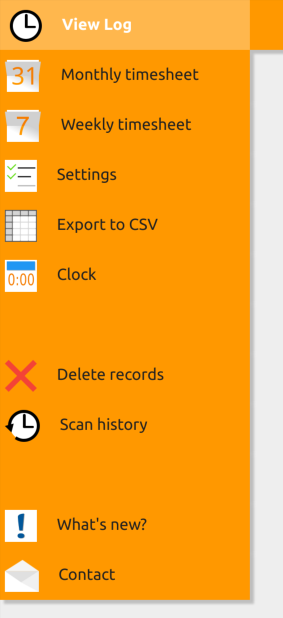
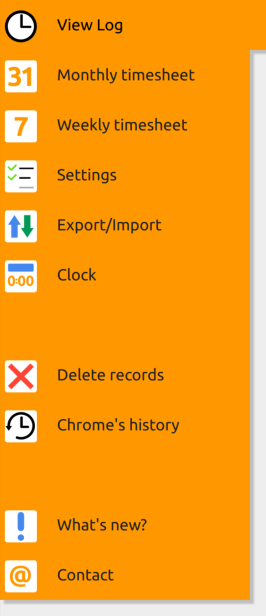
version6

diff --git a/help/index.html b/help/index.html
@@ -1,1 +1,1 @@
-<meta content="Ivan Nokonoko"name=author><meta content="Get help in the usage of LBTimer, the timer for Lionbridge and Leapforce raters"name=description><meta content=lbtimer,timer,rater,tasks,lionbridge,leapforce name=keywords><title>LBTimer's help</title><link href="https://fonts.googleapis.com/css?family=Open+Sans:400,300"rel=stylesheet><link href=../css/style.css rel=stylesheet><link href=../img/lb16.png rel=icon id=favicon sizes=16x16 type=image/png><link href=../img/lb32.png rel=icon id=favicon sizes=32x32 type=image/png><style>h2{color:#f90;font-weight:700}.bullets>li{list-style-type:disc;padding:.5em 0}table{border-collapse:collapse}th{background-color:#ccc;text-align:center;border:solid 1px #888}td{border:solid 1px #888;padding:5px 20px}.crl{font-size:12px}.crl span{color:#f40;font-weight:700}.tcrl{width:100%;margin-bottom:20px}.content div{width:80%;margin:0 auto;padding:50px 10px 10px;background-color:#fff;border-bottom:1px solid #eee}#index a{display:block}</style><div id=header><a href=../index.html title=LBTimer><img src=../img/lb96.png alt=LBTimer> LBTimer</a> <a href=# title=Help>Help</a> <a href=../contact/ title=Contact>Contact</a></div><div class=content><div id=index><h2>LBTimer's help</h2><a href=#install>Installation</a> <a href=#icon>Icon</a> <a href=#popup>Popup Menu</a> <a href=#mainpanel>Main Panel</a> <a href=#timesheets>Timesheets</a> <a href=#settings>Settings</a> <a href=#custom>Custom Research links</a></div><div id=install><h2>Installation</h2><ol><li>Open <a href=https://www.google.com/chrome/browser/desktop target=_blank>Google Chrome</a><li>Sign in to Chrome with your rater Gmail account<li>Open LBTimer's entry in Google Chrome Webstore<li>Click on the <span style=background-color:#4d7bd6;color:#fff;font-weight:700>&nbsp;+ ADD TO CHROME&nbsp;</span> button on the top right<li><p>LBTimer is now installed and you can see the icon at the right side of the address bar<figure><img src=../img/addressbarcompact.png><figcaption>LBTimer's icon</figcaption></figure><li>Upon installation, you'll be prompted to allow LBTimer to access Google Drive&#x2122;, where your work records will be stored, and the Main Panel will open.<li>LBTimer will work automatically when you open the <a href=https://www.raterhub.com target=_blank>Rater Hub page</a>.</ol></div><div id=icon><h2>Icon</h2><p>LBTimer's icon appears at the right side of the address bar (Omnibox)<figure><img src=../img/addressbarcompact.png> <span class=hl style=left:216px;top:10px;width:22px;height:22px title="LBTimer's icon"></span><figcaption>LBTimer's icon</figcaption></figure><p>The icon provides information about the current state of the extension</p><img src=../img/icontsk.png>&larr; There are tasks available in the Rater Hub page.<br><img src=../img/iconnrt.png>&larr; There are no tasks available in the Rater Hub page.<br><img src=../img/iconon.png>&larr; A task is active and the timer is running.<br><img src=../img/iconw.png>&larr; You are getting close to the allotted time for the current task.<br><img src=../img/icontu.png>&larr; You have reached the allotted time for the current task.<br><img src=../img/iconpause.png>&larr; The timer is paused<br><img src=../img/iconoff.png>&larr; The extension is inactive.<br><p>Clicking the icon will open the Popup menu.</div><div id=popup><h2>Popup Menu</h2><p>You can open the Popup menu by clicking on the extension's icon in the address bar.<figure><img src=../img/LBpopup.png alt="Popup menu"><figcaption>Popup menu</figcaption></figure><p>From the Popup menu you can open the Main Panel and have a quick glance of the tasks completed and time spent in them during the day.<p>It also provides quick access to some functions:</p><img src=../img/pause.png> Pause/continue the timer while working on tasks.<br><img src=../img/autosubmit.png> Switch auto-submission of tasks: ON - Submit and Stop rating - OFF.<br><img src=../img/onoff.png> Turn the extension ON/OFF.<br></div><div id=mainpanel><h2>Main Panel</h2><p>You can open the Main Panel by clicking on the clock icon on orange background in the popup menu.<figure><img src=../img/LBpopup.png alt="Popup menu"> <span class=hl style=left:57px;top:66px;width:164px;height:48px title="Click here to open the main panel"></span><figcaption>Popup menu</figcaption></figure><p>When you first install LBTimer, the Main Panel will show a welcome message with some instructions:<figure><img src=../img/mainpanel.png alt="Main Panel"width=640px><figcaption>LBTimer's Main Panel</figcaption></figure><p>Hovering your mouse over the top left clock icon will display the main menu:<figure><img src=../img/mainmenu.png alt="Main menu"><figcaption>LBTimer's main menu</figcaption></figure><p>From the main menu you can:<ul class=bullets><li><b>Open the extension's log</b> where you can read the list of tasks acquired/submitted/released since the extension started and other important messages from the extension.<li><b>Open the Monthly timesheet</b> to view the time spent rating tasks during the whole month. More information in the next section.<li><b>Open the Weekly timesheet</b> to view the time spent rating tasks per task type and day. More information in the next section.<li><b>Open the settings</b> and customize the working of the extension's notifications, sounds, automation, and more. See the section "Settings" below.<li><b>Export the data to CSV format</b> so you can save a copy of the recorded data in your hard drive.<li><b>Open a popup clock</b> to view the time in a bigger window or manually track the time spent on mobile tasks.<li><b>Delete the recorded data</b> once you don't need it anymore: for example, you can delete the records of the months you have already been paid for.<li><b>Scan Chrome's history for acquired tasks:</b> this tool allows you to check what tasks have been acquired according to Chrome's history in a specific date. You will be prompted to give LBTimer permission to read your Chrome history.<li><b>View what's new:</b> a summary of the most recent upgrades of the extension.<li><b>Contact the developer:</b> here you find contact information of the developer, you can send him feedback from the extension directly, rate the extension in Chrome's Web Store and show your appreciation with a donation.</ul></div><div id=timesheets><h2>Timesheets</h2><h3>Weekly timesheet</h3><figure><img src=../img/weekts.png alt="Weekly timesheet"width=640px height=400px><figcaption>Weekly timesheet</figcaption></figure><p>In the weekly timesheet you can see the tasks completed and time spent in them during the week. The tasks are divided by task type and the last columns show the totals for the week. You can also see a month summary in the bottom left.<p>The times are shown in minutes, with the totals shown either in minutes or in hours:minutes format. You can change how the totals are displayed in the settings (Settings > Timing > Show totals in hh:mm format). To quickly change the format in which the totals are displayed, click on any cell that says TOTAL.<p>Hovering your mouse over any cell with a timig total (daily, weekly or monthly) will display the earnings of that period. You can configure your hourly wages in the settings (Settings > Misc > Hourly wage)<p>You can navigate to the previous or following week using the buttons "&lt;&lt;" and "&gt;&gt;". The button labeled "today" will show the current week, with the current day highlighted. You can also use the date picker under the "today" button to show any specific date.<p>You can quickly open the monthly timesheet by clicking on the month's name in the bottom left summary table.<p>To edit any day's record, click on the date you want to edit on the top row. A dialog will open where you can manually edit the records for that day.<figure><img src=../img/edit.png alt="Edition dialog"width=322px></figure><p>When it is time to fill the timesheet in Lionbridge's portal, LBTimer can fill it automatically for you with the recorded data. Just click one of the buttons shown below to automatically fill the timesheet with the AET (average estimated time) or the real time spent in the tasks.<figure><img src=../img/tsa.png alt="Timesheet auto-fill"width=541px> <span class=hl style=left:88px;top:22px;width:122px;height:20px title="LBTimer's timesheet auto-fill buttons"></span><figcaption>Timesheet auto-fill buttons</figcaption></figure><h3>Monthly Timesheet</h3><figure><img src=../img/monthts.png alt="Monthly timesheet"width=640px height=400px><figcaption>Monthly timesheet</figcaption></figure><p>The monthly timesheet shows the time spent in rating tasks during the month. Clicking on any day's time will open the corresponding weekly timesheet.<p>You can navigate to the previous or following month using the buttons "&lt;&lt;" and "&gt;&gt;". The button labeled "today" will show the current month, with the current day highlighted.</div><div id=settings><h2>Settings</h2><h3>Notifications</h3><figure><img src=../img/notif.png alt=Notification width=372px><figcaption>LBTimer's desktop notification</figcaption></figure><ul class=bullets><li><b>When tasks available:</b> A desktop notification will appear when the Rater Hub page is loaded and there are tasks available.<li><b>When a task is acquired:</b> A desktop notification will appear when a task is acquired, indicating the task type and average estimated time.<li><b>When a task is submitted:</b> A desktop notification will appear when a task is successfully submitted, indicating the task type that was submitted and the task's id number.<li><b>When the timer reaches __% of AET:</b> A desktop notification will appear when you reach a specified percentage of the AET (average estimated time). You can select at which total time's percentage you want to be warned from 50% to 95%.<li><b>When the timer reaches the AET:</b> A desktop notification will appear when the timer reaches the AET (average estimated time) for the current task. The notification will show a button to submit the task.<li><b>Daily/Weekly/Monthly goals:</b> A desktop notification will appear when you reach any of the configured time goals. To disable the goals notification set the goal time to zero.</ul><h3>Sounds</h3><ul class=bullets><li><b>When tasks available:</b> A bell will tinkle when the Rater Hub page is loaded and there are tasks available. You can also make the sound to be repeated until a task is acquired or no more tasks are available.<li><b>When timer reaches AET:</b> A bell will tinkle when the timer reaches the AET (average estimated time) for the current task.</ul><h3>Automation</h3><ul class=bullets><li><b>Auto-reload:</b> When there are no tasks available in the Rater Hub page, LBTimer will automatically refresh the page at the selected interval.<li><b>Autosubmit:</b> When this setting is active, LBTimer will submit the current task when the timer reaches the AET (average estimated time). NOTE: LBTimer will not check that the task is complete before trying to auto-submit it.<li><b>Autosubmit sooner:</b> With this setting active, the autosubmit feature will be triggered earlier if you are running behind AET in the tasks of the current type during the day. You can select how much sooner you allow the extension to try to auto-submit.<li><b>Autosubmit later:</b> With this setting active, the autosubmit feature will be triggered later if you are ahead of AET in the tasks of the current type during the day. You can select how much later you allow the extension to try to auto-submit.<li><b>Auto-acquire:</b> When this setting is active, LBTimer will acquire the first available task that matches the task type(s) selected. This feature is specially useful paired with auto-reload when tasks are scarce.<li><b>Auto-acquire only after NRT</b> This setting will cause auto-acquire to be triggered only if previously there were no available tasks. This way, if you land on the tasks index after completing a task you can manually choose which task to acquire, if any.</ul><h3>Timing</h3><ul class=bullets><li><b>Coundown clock:</b> This setting will cause the clock displayed in the extension's icon to count from the AET (average estimated time) to zero.<li><b>AET mode:</b> When active, the timesheets will display the time recorded according to the AET (average estimated time) for the tasks. In this mode, you can hover your mouse over any time cell to see the real time spent. If this setting is inactive, the timesheets will display only the real time. This setting only affects how the timings are displayed: regardless of it, LBTimer will always record both the AET and the real time spent in the tasks.<li><b>HH:MM format:</b> This setting will change how the totals are displayed in the weekly timesheet: if active, the times will be shown in hours:minutes (e.g: 2h 30m). When inactive, the toals will be displayed only in minutes (e.g: 150).<li><b>Check midnight passing:</b> When active, LBTimer will check the current date everytime the Rate Hub page is loaded/updated, in order to record the tasks completed in the corresponding day. With this setting inactive, all tasks will be recorded in the day the extension was started (usually when Chrome was opened).<li><b>Pacific time:</b> When active, LBTimer will use the Pacific timezone. This timezone may be a requirement of your vendor.<li><b>Continuous timer</b> When active, the timer will be automatically restarted as soon as a task is submitted, without waiting for the next task (if any) to be loaded. When inactive, the timer will stop when a task is submitted and restart when a new task is completely loaded. You can select a time threshold for the continuous timer so it works only on long tasks but not on short ones.</ul><h3>E-mail</h3><ul class=bullets><li><b>Send e-mail when tasks available:</b> An e-mail will be sent to the selected e-mail addresses when tasks are available in the Rater Hub page. You can select multiple e-mail addresses to be notified by separating them with semicolon (;). To prevent flooding the e-mail, the notification e-mail will be sent only if previously there were no tasks available.</ul><h3>Misc</h3><ul class=bullets><li><b>Rate-from-LP:</b> This setting will enable the experimental feature <a href=http://jsfiddle.net/2aem2j2n/ target=_blank>Rate-from-LP</a>, that shows a small rating panel in the NM and SXS tasks' landing pages opened with LBTimer's link openers. The panel will allow you to input your rating directly from the landing page. This way, you rate what you see while you see it, and also save time by not switching constanly between the task page and the landing pages.<li><b>Hourly wage:</b> Set your hourly wage so you can preview your expected earnings by hovering your mouse over the time cells in LBTimer's timesheets.</ul></div><div id=custom><h2>Custom Research links</h2><p>The custom research links are a new feature that allows you to quickly open relevant review results to evaluate webpages, for page quality tasks.<p>It allows you to write your own research links, so that you can create your own search queries that are relevant in your locale and language.<p>It uses a series of "wildcards" so you can quickly research the webpage and website of your task without having to write a new search query each time:<ul class=bullets><li>%url &rarr; the complete URL<li>%host &rarr; the hostname<li>%main &rarr; the main website, without subpages</ul><p>You can assign a label to each of the 5 possible web research links to easily identify them while completing the rating task.<p>Examples:<table><tr><td><b>Task URL:</b> http://www.bbc.co.uk/example/page/here<br><b>Task language:</b> English(UK)<br><span class=crl><span>LBTimer:</span> - <a href=http://www.bbc.co.uk/bbc/page/here target=_blank>Open it!</a> - <a href="https://www.google.com/search?q=Is%20bbc.co.uk%20a%20scam%20-site%3Abbc.co.uk"target=_blank>Check scam</a> - <a href="https://www.google.com/search?q=wikipedia%20%22bbc.co.uk%22"target=_blank>Wiki</a></span><tr><td><table class=tcrl><tr><th>Label<th>Custom link<th>Action when clicked<tr><td>Open it!<td>%url<td>Opens the webpage http://www.bbc.co.uk/example/page/here<tr><td>Check scam<td>Is %host a scam -site:%host<td>Makes a web search &rarr; Is bbc.co.uk a scam -site:bbc.co.uk<tr><td>Wiki<td>wikipedia "%host"<td>Makes a web search &rarr; wikipedia "bbc.co.uk"</table><tr><td><b>Task URL:</b> https://m.lemonde.fr/francais/page/ici<br><b>Task language:</b> French(FR)<br><span class=crl><span>LBTimer:</span> - <a href=https://m.lemonde.fr target=_blank>Main page</a> - <a href="https://www.google.com/search?q=lemonde.fr%20r%C3%A9putation%20-site%3Alemonde.fr"target=_blank>Reputation</a> - <a href="https://www.google.com/search?q=%22lemonde.fr%22%20arnaque%20rapport">Scam</a><tr><td><table class=tcrl><tr><th>Label<th>Custom link<th>Action when clicked<tr><td>Main page<td>%main<td>Opens the webpage https://m.lemonde.fr<tr><td>Reputation<td>%host r&eacute;putation -site:%host<td>Makes a web search &rarr; lemonde.fr r&eacute;putation -site:lemonde.fr<tr><td>Scam<td>"%host" arnaque rapport<td>Makes a web search &rarr; "lemonde.fr" arnaque rapport</table><tr><td><b>Task URL:</b> http://www.newsradioklbj.com/news/austin-local-news/condo-scam-suspect-charged-burglary<br><b>Task language:</b> English(US)<br><span class=crl><span>LBTimer:</span> - <a href=http://www.newsradioklbj.com/news/austin-local-news/condo-scam-suspect-charged-burglary target=_blank>Open</a> - <a href="https://www.google.com/search?q=newsradioklbj.com%20site%3Aalexa.com"target=_blank>Alexa</a> - <a href="https://wikipedia.org/w/?search=newsradioklbj.com"target=_blank>Wiki</a><tr><td><table class=tcrl><tr><th>Label<th>Custom link<th>Action when clicked<tr><td>Open<td>%url<td>Opens the webpage http://www.newsradioklbj.com/news/austin-local-news/condo-scam-suspect-charged-burglary<tr><td>Alexa<td>%host site:alexa.com<td>Makes a web search &rarr; newsradioklbj.com site:alexa.com<tr><td>Wiki<td>https://wikipedia.org/w/?search=%host<td>Opens the webpage: https://wikipedia.org/w/?search=newsradioklbj.com</table></div></div>
+<meta content="Ivan Nokonoko"name=author><meta content="Get help in the usage of LBTimer, the timer for Lionbridge and Leapforce raters"name=description><meta content=lbtimer,timer,rater,tasks,lionbridge,leapforce name=keywords><title>LBTimer's help</title><link href="https://fonts.googleapis.com/css?family=Open+Sans:400,300"rel=stylesheet><link href=../css/style.css rel=stylesheet><link href=../img/lb16.png rel=icon id=favicon sizes=16x16 type=image/png><link href=../img/lb32.png rel=icon id=favicon sizes=32x32 type=image/png><style>h2{color:#f90;font-weight:700}.bullets>li{list-style-type:disc;padding:.5em 0}table{border-collapse:collapse}th{background-color:#ccc;text-align:center;border:solid 1px #888}td{border:solid 1px #888;padding:5px 20px}.crl{font-size:12px}.crl span{color:#f40;font-weight:700}.tcrl{width:100%;margin-bottom:20px}.content div{width:80%;margin:0 auto;padding:50px 10px 10px;background-color:#fff;border-bottom:1px solid #eee}#index a{display:block}</style><div id=header><a href=../index.html title=LBTimer><img src=../img/lb96.png alt=LBTimer> LBTimer</a> <a href=# title=Help>Help</a> <a href=../contact/ title=Contact>Contact</a></div><div class=content><div id=index><h2>LBTimer's help</h2><a href=#install>Installation</a> <a href=#icon>Icon</a> <a href=#popup>Popup Menu</a> <a href=#mainpanel>Main Panel</a> <a href=#timesheets>Timesheets</a> <a href=#settings>Settings</a> <a href=#custom>Custom Research links</a></div><div id=install><h2>Installation</h2><ol><li>Open <a href=https://www.google.com/chrome/browser/desktop target=_blank>Google Chrome</a><li><b>Sign in to Chrome with your rater Gmail account</b>. More info <a href=https://support.google.com/chrome/answer/185277 target=_blank>here</a>.<li>Open <a href=https://chrome.google.com/webstore/detail/lbtimer/nocdlcgkdeopogoldfeahdneobfaiggd target=_blank>LBTimer's page in Google Chrome Webstore</a><li>Click on the <span style=background-color:#4d7bd6;color:#fff>&nbsp;<b>+ ADD TO CHROME</b>&nbsp;</span> button on the top right<li><p>LBTimer is now installed and you can see the icon at the right side of the address bar<figure><img src=../img/addressbarcompact.png><figcaption>LBTimer's icon</figcaption></figure><li>Upon installation, you'll be prompted to allow LBTimer to access Google Drive&#x2122;, where your work records will be stored, and the Main Panel will open.<li>LBTimer will work automatically when you open the <a href=https://www.raterhub.com target=_blank>Rater Hub page</a>.</ol></div><div id=icon><h2>Icon</h2><p>LBTimer's icon appears at the right side of the address bar (Omnibox)<figure><img src=../img/addressbarcompact.png> <span class=hl style=left:216px;top:10px;width:22px;height:22px title="LBTimer's icon"></span><figcaption>LBTimer's icon</figcaption></figure><p>The icon provides information about the current state of the extension</p><img src=../img/icontsk.png>&larr; There are tasks available in the Rater Hub page.<br><img src=../img/iconnrt.png>&larr; There are no tasks available in the Rater Hub page.<br><img src=../img/iconon.png>&larr; A task is active and the timer is running.<br><img src=../img/iconw.png>&larr; You are getting close to the allotted time for the current task.<br><img src=../img/icontu.png>&larr; You have reached the allotted time for the current task.<br><img src=../img/iconpause.png>&larr; The timer is paused<br><img src=../img/iconoff.png>&larr; The extension is inactive.<br><p>Clicking the icon will open the Popup menu.</div><div id=popup><h2>Popup Menu</h2><p>You can open the Popup menu by clicking on the extension's icon in the address bar.<figure><img src=../img/LBpopup.png alt="Popup menu"><figcaption>Popup menu</figcaption></figure><p>From the Popup menu you can open the Main Panel and have a quick glance of the tasks completed and time spent in them during the day.<p>It also provides quick access to the main automation features: automatic submission of tasks, automatic acquisition of tasks and automatic reloading of the index page when no tasks are available.<p>In the lower part, you have a link to this help page (the ? icon), a view of the current timing if a task is active (where you can pause or resume the timer), and a switch to activate or deactivate the extension (active by default).</div><div id=mainpanel><h2>Main Panel</h2><p>You can open the Main Panel by clicking on the orange bar in the popup menu.<figure><img src=../img/LBpopup.png alt="Popup menu"> <span class=hl style=left:15px;top:50px;width:280px;height:47px title="Click here to open the main panel"></span><figcaption>Popup menu</figcaption></figure><p>When you first install LBTimer, the Main Panel will show a welcome message with some instructions:<figure><img src=../img/mainpanel.png alt="Main Panel"width=640px><figcaption>LBTimer's Main Panel</figcaption></figure><p>Hovering your mouse over the top left clock icon will display the main menu:<figure><img src=../img/mainmenu.png alt="Main menu"><figcaption>LBTimer's main menu</figcaption></figure><p>From the main menu you can:<ul class=bullets><li><b>Open the extension's log</b> where you can read the list of tasks acquired/submitted/released since the extension started and other important messages from the extension.<li><b>Open the Monthly timesheet</b> to view the time spent rating tasks during the whole month. More information in <a href=#timesheets>the next section</a>.<li><b>Open the Weekly timesheet</b> to view the time spent rating tasks per task type and day. More information in <a href=#timesheets>the next section</a>.<li><b>Open the settings</b> and customise the working of the extension's notifications, sounds, automation, and more. See the section "<a href=#settings>Settings</a>" below.<li><b>Export the data to CSV format</b> so you can save a copy of the recorded data in your hard drive. You can also <b>import</b> the saved data from a previously exported CSV file.<li><b>Open a popup clock</b> to view the time in a bigger window or manually track the time spent on mobile tasks.<li><b>Delete the recorded data</b> once you don't need it anymore: for example, you can delete the records of the months you have already been paid for. Deleting old records may speed up the extension's startup time.<li><b>Scan Chrome's history for acquired tasks:</b> this tool allows you to check what tasks have been acquired according to Chrome's history in a specific date. You need to authorise LBTimer to read your Chrome history.<li><b>View what's new:</b> a summary of the most recent upgrades of the extension.<li><b>Contact the developer:</b> here you find contact information of the developer, you can send him feedback from the extension directly, rate the extension in Chrome's Web Store and show your appreciation with a donation.</ul></div><div id=timesheets><h2>Timesheets</h2><h3>Weekly timesheet</h3><figure><img src=../img/weekts.png alt="Weekly timesheet"width=640px height=400px><figcaption>Weekly timesheet</figcaption></figure><p>In the weekly timesheet you can see the tasks completed and time spent in them during the week. The tasks are divided by task type and the last columns show the totals for the week. You can also see a month summary in the bottom left.<p>The times are shown in minutes, with the totals shown either in minutes or in hours:minutes format. You can change how the totals are displayed in the <a href=#settings>settings</a> (Settings > Timing > Show totals in hh:mm format). To quickly change the format in which the totals are displayed, click on any cell that says TOTAL.<p>Hovering your mouse over any cell with a timig total (daily, weekly or monthly) will display the earnings of that period. You can configure your hourly wages in the <a href=#settings>settings</a> (Settings > Misc > Hourly wage)<p>You can navigate to the previous or following week using the buttons "&lt;&lt;" and "&gt;&gt;". The button labeled "today" will show the current week, with the current day highlighted. You can also use the date picker under the "today" button to quickly navigate to any specific date.<p>You can quickly open the monthly timesheet by clicking on the month's name in the bottom left summary table.<p><b>To edit any day's record</b>, click on the date you want to edit on the top row. A dialog will open where you can manually edit the records for that day.<figure><img src=../img/edit.png alt="Edition dialog"width=322px></figure><p>When it is time to fill the timesheet in Lionbridge's portal, LBTimer can fill it automatically for you with the recorded data. Just click one of the buttons shown below to automatically fill the timesheet with the AET (average estimated time) or the real time spent in the tasks.<figure><img src=../img/tsa.png alt="Timesheet auto-fill"width=541px> <span class=hl style=left:88px;top:22px;width:122px;height:20px title="LBTimer's timesheet auto-fill buttons"></span><figcaption>Timesheet auto-fill buttons</figcaption></figure><h3>Monthly Timesheet</h3><figure><img src=../img/monthts.png alt="Monthly timesheet"width=640px height=400px><figcaption>Monthly timesheet</figcaption></figure><p>The monthly timesheet shows the time spent in rating tasks during the month. Clicking on any day's time will open the corresponding weekly timesheet.<p>Hovering your mouse over any cell will show the earnings for that day. You can configure your hourly wages in the <a href=#settings>settings</a> (Settings > Misc > Hourly wage)<p>You can navigate to the previous or following month using the buttons "&lt;&lt;" and "&gt;&gt;". The button labeled "today" will show the current month, with the current day highlighted.</div><div id=settings><h2>Settings</h2><h3>Notifications</h3><figure><img src=../img/notif.png alt=Notification width=372px><figcaption>LBTimer's desktop notification</figcaption></figure><ul class=bullets><li><b>When tasks available:</b> A desktop notification will appear when the Rater Hub page is loaded and there are tasks available.<li><b>When a task is acquired:</b> A desktop notification will appear when a task is acquired, indicating the task type and average estimated time.<li><b>When a task is submitted:</b> A desktop notification will appear when a task is successfully submitted, indicating the task type that was submitted and the task's id number.<li><b>When the timer reaches __% of AET:</b> A desktop notification will appear when you reach a specified percentage of the AET (average estimated time). You can select at which total time's percentage you want to be warned from 50% to 95%.<li><b>When the timer reaches the AET:</b> A desktop notification will appear when the timer reaches the AET (average estimated time) for the current task. you can submit the task directly using the button of the notification.<li><b>Daily/Weekly/Monthly goals:</b> A desktop notification will appear when you reach any of the configured time goals. To disable the goals notification set the goal time to zero.</ul><h3>Sounds</h3><ul class=bullets><li><b>When tasks available:</b> A bell will tinkle when the Rater Hub page is loaded and there are tasks available. You can also make the sound to be repeated until a task is acquired or no more tasks are available.<li><b>When timer reaches AET:</b> A bell will tinkle when the timer reaches the AET (average estimated time) for the current task.</ul><h3>Automation</h3><ul class=bullets><li><b>Auto-reload:</b> When there are no tasks available in the Rater Hub page, LBTimer will automatically refresh the page at the selected interval.<li><b>Autosubmit:</b> When this setting is active, LBTimer will submit the current task when the timer reaches the AET (average estimated time). NOTE: LBTimer will not check that the task is complete before trying to auto-submit it.<li><b>Autosubmit sooner:</b> With this setting active, the autosubmit feature will be triggered earlier if you are running behind AET in the tasks of the current type during the day. You can select how much sooner you allow the extension to try to auto-submit.<li><b>Autosubmit later:</b> With this setting active, the autosubmit feature will be triggered later if you are ahead of AET in the tasks of the current type during the day. You can select how much later you allow the extension to try to auto-submit.<li><b>Auto-acquire:</b> When this setting is active, LBTimer will acquire the first available task that matches the task type(s) selected. This feature is specially useful paired with auto-reload when tasks are scarce.<li><b>Auto-acquire only after NRT</b> This setting will cause auto-acquire to be triggered <b>only</b> if previously there were no available tasks. This way, if you land on the tasks index after completing a task you can manually choose which task to acquire, if any are available.</ul><h3>Timing</h3><ul class=bullets><li><b>Coundown clock:</b> This setting will cause the clock displayed in the extension's icon to count from the AET (average estimated time) to zero.<li><b>AET mode:</b> When active, the timesheets will display the time recorded according to the AET (average estimated time) for the tasks. In this mode, you can hover your mouse over any time cell to see the real time spent. If this setting is inactive, the timesheets will display only the real time. This setting only affects how the timings are displayed: regardless of it, LBTimer will <b>always</b> record both the AET and the real time spent in the tasks.<li><b>HH:MM format:</b> This setting will change how the totals are displayed in the weekly timesheet: if active, the times will be shown in hours:minutes (e.g: 2h 30m). When inactive, the totals will be displayed only in minutes (e.g: 150).<li><b>Check midnight passing:</b> When active, LBTimer will check the current date everytime the Rater Hub index page is loaded/updated, in order to record the tasks completed in the corresponding day. With this setting inactive, all tasks will be recorded in the day the extension was started (usually when Chrome was opened).<li><b>Pacific time:</b> When active, LBTimer will use the Pacific timezone. This timezone may be a requirement of your vendor or employer.<li><b>Week start:</b> You can choose to show the timesheets with the weeks starting on Monday or Sunday.<li><b>Continuous timer</b> When active, the timer will be automatically restarted as soon as a task is submitted, without waiting for the next task (if any) to be loaded. When inactive, the timer will stop when a task is submitted and restart when a new task is completely loaded. You can select a time threshold for the continuous timer so it works only on long tasks but not on short ones.</ul><h3>E-mail</h3><ul class=bullets><li><b>Send e-mail when tasks available:</b> An e-mail will be sent to the selected e-mail addresses when tasks are available in the Rater Hub page. You can select multiple e-mail addresses to be notified by separating them with semicolon (;). To prevent flooding the e-mail, the notification e-mail will be sent only if previously there were no tasks available.</ul><h3>Misc</h3><ul class=bullets><li><b>Rate-from-LP:</b> This setting will enable the experimental feature <a href=http://jsfiddle.net/2aem2j2n/ target=_blank>Rate-from-LP</a>, that shows a small rating panel in the NM and SXS tasks' landing pages when opened with LBTimer's link openers. The panel will allow you to input your rating directly from the landing page. This way, you rate what you see while you see it, and also save time by not switching constanly between the task page and the landing pages.<li><b>Hourly wage:</b> Set your hourly wage so you can preview your expected earnings by hovering your mouse over the time cells in LBTimer's timesheets.</ul></div><div id=custom><h2>Custom Research links</h2><p>The custom research links allow you to quickly open relevant review results to evaluate webpages, for Page Quality tasks.<p>It allows you to write your own research links, so that you can create your own search queries that are relevant in your locale and language.<p>It uses a series of "wildcards" so you can quickly research the webpage and website of your task without having to write a new search query each time. The available wildcards are:<ul class=bullets><li>%url &rarr; the complete URL<li>%host &rarr; the hostname<li>%main &rarr; the main website, without subpages</ul><p>You can assign a label to each of the 5 possible web research links to easily identify them while completing the rating task.<p>Examples:<table><tr><td><b>Task URL:</b> http://www.bbc.co.uk/example/page/here<br><b>Task language:</b> English(UK)<br><span class=crl><span>LBTimer:</span> - <a href=http://www.bbc.co.uk/bbc/page/here target=_blank>Open it!</a> - <a href="https://www.google.com/search?q=Is%20bbc.co.uk%20a%20scam%20-site%3Abbc.co.uk"target=_blank>Check scam</a> - <a href="https://www.google.com/search?q=wikipedia%20%22bbc.co.uk%22"target=_blank>Wiki</a></span><tr><td><table class=tcrl><tr><th>Label<th>Custom link<th>Action when clicked<tr><td>Open it!<td>%url<td>Opens the webpage http://www.bbc.co.uk/example/page/here<tr><td>Check scam<td>Is %host a scam -site:%host<td>Makes a web search &rarr; Is bbc.co.uk a scam -site:bbc.co.uk<tr><td>Wiki<td>wikipedia "%host"<td>Makes a web search &rarr; wikipedia "bbc.co.uk"</table><tr><td><b>Task URL:</b> https://m.lemonde.fr/francais/page/ici<br><b>Task language:</b> French(FR)<br><span class=crl><span>LBTimer:</span> - <a href=https://m.lemonde.fr target=_blank>Main page</a> - <a href="https://www.google.com/search?q=lemonde.fr%20r%C3%A9putation%20-site%3Alemonde.fr"target=_blank>Reputation</a> - <a href="https://www.google.com/search?q=%22lemonde.fr%22%20arnaque%20rapport">Scam</a><tr><td><table class=tcrl><tr><th>Label<th>Custom link<th>Action when clicked<tr><td>Main page<td>%main<td>Opens the webpage https://m.lemonde.fr<tr><td>Reputation<td>%host r&eacute;putation -site:%host<td>Makes a web search &rarr; lemonde.fr r&eacute;putation -site:lemonde.fr<tr><td>Scam<td>"%host" arnaque rapport<td>Makes a web search &rarr; "lemonde.fr" arnaque rapport</table><tr><td><b>Task URL:</b> http://www.newsradioklbj.com/news/austin-local-news/condo-scam-suspect-charged-burglary<br><b>Task language:</b> English(US)<br><span class=crl><span>LBTimer:</span> - <a href=http://www.newsradioklbj.com/news/austin-local-news/condo-scam-suspect-charged-burglary target=_blank>Open</a> - <a href="https://www.google.com/search?q=newsradioklbj.com%20site%3Aalexa.com"target=_blank>Alexa</a> - <a href="https://wikipedia.org/w/?search=newsradioklbj.com"target=_blank>Wiki</a><tr><td><table class=tcrl><tr><th>Label<th>Custom link<th>Action when clicked<tr><td>Open<td>%url<td>Opens the webpage http://www.newsradioklbj.com/news/austin-local-news/condo-scam-suspect-charged-burglary<tr><td>Alexa<td>%host site:alexa.com<td>Makes a web search &rarr; newsradioklbj.com site:alexa.com<tr><td>Wiki<td>https://wikipedia.org/w/?search=%host<td>Opens the webpage: https://wikipedia.org/w/?search=newsradioklbj.com</table></div></div>

diff --git a/index.html b/index.html
@@ -1,1 +1,1 @@
-<!DOCTYPE html><meta content="Ivan Nokonoko"name=author><meta content="Task counter & timer for Lionbridge and Leapforce raters, integrated with Google Drive"name=description><meta content=lbtimer,timer,rater,tasks,lionbridge,leapforce name=keywords><title>LBTimer - The timer for Lionbridge and Leapforce raters</title><link href="https://fonts.googleapis.com/css?family=Open+Sans:400,300"rel=stylesheet><link href=css/style.css rel=stylesheet><link href=../img/lb16.png rel=icon id=favicon sizes=16x16 type=image/png><link href=../img/lb32.png rel=icon id=favicon sizes=32x32 type=image/png><div id=header><a href=index.html title=LBTimer><img src=img/lb96.png alt=LBTimer> LBTimer</a> <a href=./help/ title=Help>Help</a> <a href=./contact/ title=Contact>Contact</a></div><section id=lbtimer><h1>Rating made easy</h1><div><a href=https://chrome.google.com/webstore/detail/nocdlcgkdeopogoldfeahdneobfaiggd target=_blank style=font-size:small>Free download</a></div><a href=https://chrome.google.com/webstore/detail/nocdlcgkdeopogoldfeahdneobfaiggd target=_blank><img src=img/badge.png height=75px width=248px></a><div id=heroimg style=margin-top:60px><div id=cframe><img src=img/hero.png alt=LBTimer height=400px style=padding:0 width=640px></div></div></section><section><h2><span style=color:#f90;font-weight:700>LBTimer</span> is a Chrome extension for Google search engine evaluators. It keeps track of your time and completed rating tasks, saving the data in your Google Drive&#x2122;. Automatic, lightweight and full of features, it makes the rating work a breeze.</h2><p>If you want to become a rater, contact a work-from-home company like <a href=http://www.thesmartcrowd.com/about/workers/job-opportunities/ target=_blank>Lionbridge</a>* or <a href=https://www.leapforceathome.com/qrp/public/jobs/list target=_blank>Leapforce</a>*</section><section class=comments><h2 style=color:#f90;text-align:center>Users' comments:</h2><p>"Such a great tool for Search Engine raters! It is so easy to use and saves a lot of time when inputting your hours into the timesheets!"<br><span style=color:#f90>&#x2605;&#x2605;&#x2605;&#x2605;&#x2605;</span><p>"Accurate and has frequent updates that add to the ease"<br><span style=color:#f90>&#x2605;&#x2605;&#x2605;&#x2605;&#x2605;</span><p>"It's very good. It helps a lot and it's free. Thank you so much for this excellent extension."<br><span style=color:#f90>&#x2605;&#x2605;&#x2605;&#x2605;&#x2605;</span><h2><a href=https://chrome.google.com/webstore/detail/nocdlcgkdeopogoldfeahdneobfaiggd/reviews target=_blank>Read more reviews</a></h2></section><footer><p>&#xa9; Copyright 2014-2016, <a href="mailto:iczubakczubak@gmail.com?subject=LBTimer">Iv&aacute;n Nokonoko</a>. All rights reserved. <a href=./privacy/ title=Privacy>Privacy policy</a><p>Released under <a href=http://www.gnu.org/licenses/ target=_blank>GNU General Public License</a>.<p>(*) All product names, logos, and brands are property of their respective owners. All company, product and service names used in this website are for identification purposes only. Use of these names, logos, and brands does not imply endorsement.<p>Google Drive is a trademark of Google Inc. Use of this trademark is subject to Google Permissions.</footer>
+<!DOCTYPE html><meta content="Ivan Nokonoko"name=author><meta content="Task counter & timer for Lionbridge and Leapforce raters, integrated with Google Drive"name=description><meta content=lbtimer,timer,rater,tasks,lionbridge,leapforce name=keywords><title>LBTimer - The timer for Lionbridge and Leapforce raters</title><link href="https://fonts.googleapis.com/css?family=Open+Sans:400,300"rel=stylesheet><link href=css/style.css rel=stylesheet><link href=../img/lb16.png rel=icon id=favicon sizes=16x16 type=image/png><link href=../img/lb32.png rel=icon id=favicon sizes=32x32 type=image/png><div id=header><a href=./ title=LBTimer><img src=img/lb96.png alt=LBTimer> LBTimer</a> <a href=./help/ title=Help>Help</a> <a href=./contact/ title=Contact>Contact</a></div><section id=lbtimer><h1>Rating made easy</h1><div><a href=https://chrome.google.com/webstore/detail/nocdlcgkdeopogoldfeahdneobfaiggd target=_blank style=font-size:small>Free download</a></div><a href=https://chrome.google.com/webstore/detail/nocdlcgkdeopogoldfeahdneobfaiggd target=_blank><img src=img/badge.png height=75px width=248px></a><div id=heroimg style=margin-top:60px><div id=cframe><img src=img/hero.png alt=LBTimer height=400px style=padding:0 width=640px></div></div></section><section><h2><span style=color:#f90;font-weight:700>LBTimer</span> is a Chrome extension for Google search engine evaluators. It keeps track of your time and completed rating tasks, saving the data in your Google Drive&#x2122;. Automatic, lightweight and full of features, it makes the rating work a breeze.</h2><p>If you want to become a rater, contact a work-from-home company like <a href=http://www.thesmartcrowd.com/about/workers/job-opportunities/ target=_blank>Lionbridge</a>* or <a href=https://www.leapforceathome.com/qrp/public/jobs/list target=_blank>Leapforce</a>*</section><section class=comments><h2 style=color:#f90;text-align:center>Users' comments:</h2><p>"Such a great tool for Search Engine raters! It is so easy to use and saves a lot of time when inputting your hours into the timesheets!"<br><span style=color:#f90>&#x2605;&#x2605;&#x2605;&#x2605;&#x2605;</span><p>"Accurate and has frequent updates that add to the ease"<br><span style=color:#f90>&#x2605;&#x2605;&#x2605;&#x2605;&#x2605;</span><p>"It's very good. It helps a lot and it's free. Thank you so much for this excellent extension."<br><span style=color:#f90>&#x2605;&#x2605;&#x2605;&#x2605;&#x2605;</span><h2><a href=https://chrome.google.com/webstore/detail/nocdlcgkdeopogoldfeahdneobfaiggd/reviews target=_blank>Read more reviews</a></h2></section><footer><p>&#xa9; Copyright 2014-2017, <a href="mailto:iczubakczubak@gmail.com?subject=LBTimer">Iv&aacute;n Nokonoko</a>. All rights reserved. <a href=./privacy/ title=Privacy>Privacy policy</a><p>Released under <a href=http://www.gnu.org/licenses/ target=_blank>GNU General Public License</a>.<p>(*) All product names, logos, and brands are property of their respective owners. All company, product and service names used in this website are for identification purposes only. Use of these names, logos, and brands does not imply endorsement.<p>Google Drive is a trademark of Google Inc. Use of this trademark is subject to Google Permissions.</footer>
